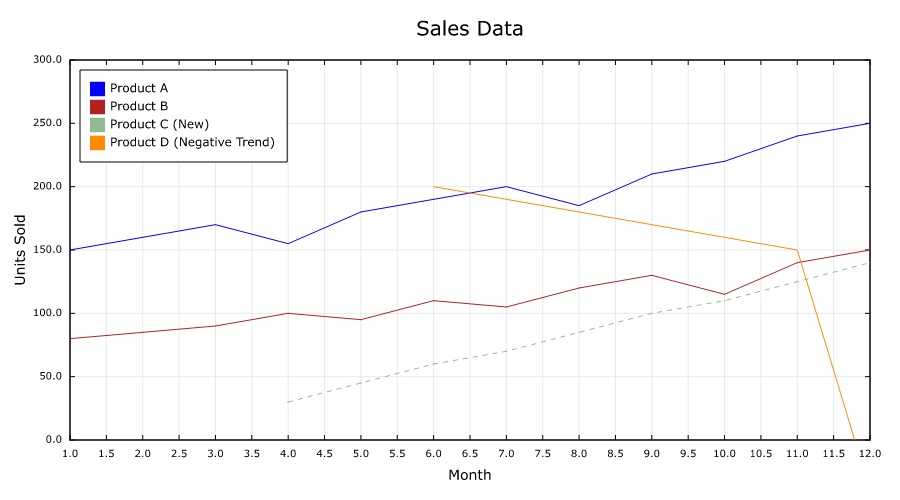
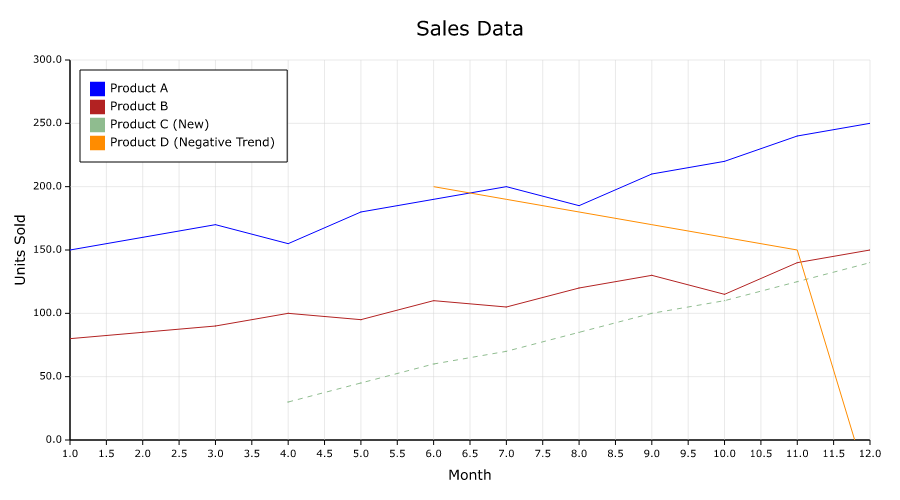
bug fix outward ticks overlapped with y-axis nums
In addition the monthly_sales example was changed to use outward ticks and a Bottom left only axis

diff --git a/src/draw/ticks_and_grids.rs b/src/draw/ticks_and_grids.rs
@@ -257,7 +257,7 @@ where
                         tick_x_left
                             - tick_config.text_padding
                             - (if tick_direction > 0.0 {
-                                0.0
+                                tick_config.length
                             } else {
                                 tick_config.length
                             }),

diff --git a/examples/monthly_sales.rs b/examples/monthly_sales.rs
@@ -21,6 +21,8 @@ fn main() {
         .grid(Grid::Solid)
         .font("Verdana")
         .margin(Margin::default().add_left(10.0))
+        .axis(Axis::BottomLeft)
+        .tick(Tick::Outward)
         .data([
             Series::builder()
                 .name("Product A")
